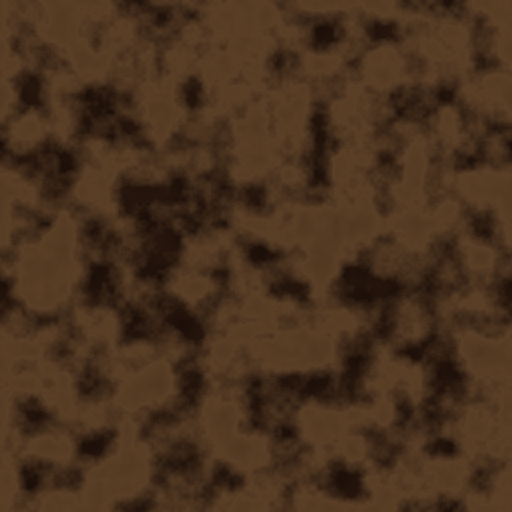
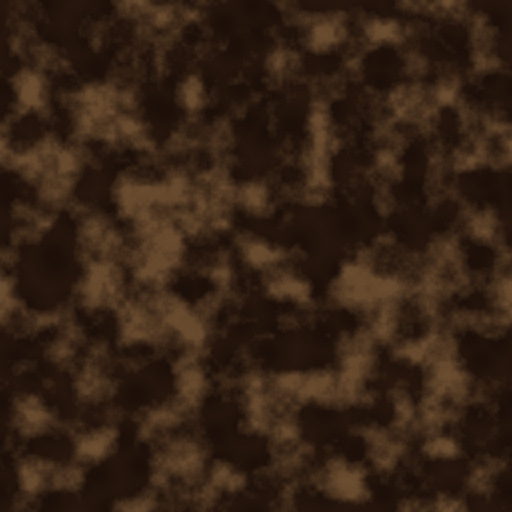
fix(cookbook): correct leather/terrain bugs surfaced by the subgraph retrofit
t01_sand_dunes: the wood donor wired blend_0 (the master ripple pattern)
into Material's metallic port, and Material's metallic scalar defaults to 1,
so parts of the sand read as metal. Drop the wire and zero the scalar;
verified the exported ORM metallic channel is flat black.

l02_distressed_two_tone: swap port0/port1 on both blends so the dark saddle
base is the majority and the lighter worn rubs are the scattered minority
(was reversed). This also makes the exposed 'Wear blend strength' param
control the wear layer as its label claims.

l05_quilted_leather: swap port0/port1 on blend_alb_q so the dark seam_shade
lands in the recessed seams instead of on the pad centers. Grayson chose the
swap over relabeling; the round-pad geometry limitation is documented in the
card.

Recipe cards for all three rewritten to describe the fixed behavior. Fast
suite 505 passed, promote --check in sync.

diff --git a/quality/cookbook_leather.py b/quality/cookbook_leather.py
@@ -155,11 +155,20 @@ def build_l02_distressed_two_tone(catalog: dict) -> str:
         {"from": "perlin_wm", "from_port": 0, "to": "colorize_wm", "to_port": 0},
         {"from": "perlin_wm", "from_port": 0, "to": "worn_alb", "to_port": 0},
         {"from": "perlin_wm", "from_port": 0, "to": "worn_rgh", "to_port": 0},
-        {"from": "colorize_1", "from_port": 0, "to": "blend_alb", "to_port": 0},  # base grain
-        {"from": "worn_alb", "from_port": 0, "to": "blend_alb", "to_port": 1},
+        # Polarity fix (2026-09-04): the worn tone is the MINORITY (scattered
+        # rubs), the dark saddle base is the MAJORITY. blend output =
+        # mask*port0 + (1-mask)*port1, and colorize_wm's mask is 1 only in the
+        # small high-perlin patches, 0 across the broad remainder. So the worn
+        # tone belongs on port0 (shown where mask=1 = the patches) and the base
+        # on port1 (shown where mask=0 = most of the surface). The original
+        # wiring had these reversed, so the worn tan covered most of the hide
+        # and the base showed only in small patches -- backwards from the
+        # recipe's own intent.
+        {"from": "worn_alb", "from_port": 0, "to": "blend_alb", "to_port": 0},   # worn rubs (minority, mask=1)
+        {"from": "colorize_1", "from_port": 0, "to": "blend_alb", "to_port": 1}, # dark saddle base (majority, mask=0)
         {"from": "colorize_wm", "from_port": 0, "to": "blend_alb", "to_port": 2},
-        {"from": "colorize_3", "from_port": 0, "to": "blend_rgh", "to_port": 0},
-        {"from": "worn_rgh", "from_port": 0, "to": "blend_rgh", "to_port": 1},
+        {"from": "worn_rgh", "from_port": 0, "to": "blend_rgh", "to_port": 0},   # worn roughness (minority)
+        {"from": "colorize_3", "from_port": 0, "to": "blend_rgh", "to_port": 1}, # base roughness (majority)
         {"from": "colorize_wm", "from_port": 0, "to": "blend_rgh", "to_port": 2},
     ]
     rewire(g, "Material", 0, "blend_alb", 0)   # albedo <- worn-over-base
@@ -171,12 +180,12 @@ def build_l02_distressed_two_tone(catalog: dict) -> str:
     # Port-source trace for blend_alb/blend_rgh, read directly from the
     # `connections` list assembled above (ground truth: blend.mmg's shader
     # model is s1=port0/foreground, s2=port1/background, a=port2/mask, output
-    # = mask*port0 + (1-mask)*port1):
-    #   blend_alb: port0 (shown where mask=1) <- colorize_1 (base grain)
-    #              port1 (shown where mask=0) <- worn_alb
+    # = mask*port0 + (1-mask)*port1). Post-polarity-fix wiring:
+    #   blend_alb: port0 (shown where mask=1) <- worn_alb (scattered rubs)
+    #              port1 (shown where mask=0) <- colorize_1 (base grain, majority)
     #              port2 (mask)               <- colorize_wm
-    #   blend_rgh: port0 (shown where mask=1) <- colorize_3 (base roughness)
-    #              port1 (shown where mask=0) <- worn_rgh
+    #   blend_rgh: port0 (shown where mask=1) <- worn_rgh (rubbed roughness)
+    #              port1 (shown where mask=0) <- colorize_3 (base roughness, majority)
     #              port2 (mask)               <- colorize_wm (same mask)
     # Grouping below keeps both blends together in one composite group with
     # no change to any of these connections; group_into_subgraph rehomes each
@@ -332,9 +341,15 @@ def build_l05_quilted_leather(catalog: dict) -> str:
         # height: pattern pads (base) + grain (colorize_0) overlaid at 0.35
         {"from": "pattern_q", "from_port": 0, "to": "blend_h_q", "to_port": 0},
         {"from": "colorize_0", "from_port": 0, "to": "blend_h_q", "to_port": 1},
-        # albedo: darken the seams over the saddle grain, opacity = seam mask
-        {"from": "colorize_1", "from_port": 0, "to": "blend_alb_q", "to_port": 0},
-        {"from": "seam_shade", "from_port": 0, "to": "blend_alb_q", "to_port": 1},
+        # albedo: darken the seams over the saddle grain. Polarity fix
+        # (2026-09-04): seam_mask is 1 in the recessed seams (low pattern) and
+        # 0 on the pad faces (high pattern), and blend output =
+        # mask*port0 + (1-mask)*port1, so the dark seam_shade must sit on port0
+        # (shown where mask=1 = seams) and the grain on port1 (shown where
+        # mask=0 = pads). The original wiring had these reversed, so the dark
+        # landed on the pad CENTERS (button-tuft dots) instead of in the seams.
+        {"from": "seam_shade", "from_port": 0, "to": "blend_alb_q", "to_port": 0},  # dark seams (mask=1)
+        {"from": "colorize_1", "from_port": 0, "to": "blend_alb_q", "to_port": 1},  # grain pad faces (mask=0)
         {"from": "seam_mask", "from_port": 0, "to": "blend_alb_q", "to_port": 2},
     ]
     rewire(g, "Material", 0, "blend_alb_q", 0)     # albedo <- seam-shaded grain

diff --git a/quality/cookbook_terrain.py b/quality/cookbook_terrain.py
@@ -42,6 +42,18 @@ def build_t01_sand_dunes(catalog: dict) -> str:
         (1.0, 0.92, 0.92, 0.92),
     ])
 
+    # Non-metallic fix (2026-09-04): the `wood` donor wires `blend_0` (the
+    # master ripple pattern) straight into `Material` port 1 (metallic), so a
+    # grayscale 0..1 pattern drove the metallic channel and parts of the sand
+    # read as metal. Sand is non-metallic. Drop the wire AND zero the scalar:
+    # `Material`'s own `metallic` default is 1, so dropping alone would flip it
+    # fully metallic -- doing both is correct under every Material-node
+    # port/scalar semantic (t02_fresh_snow zeroes its metallic-feeding node the
+    # same way; here the feeder also drives albedo/roughness/normal so it can't
+    # be zeroed, hence the scalar).
+    drop_conn(g, "Material", 1)          # remove blend_0 -> metallic wire
+    set_param(g, "Material", "metallic", 0)
+
     # Subgraph grouping. `perlin_2` -> `blend_0` (Multiply, port0) is the
     # dune-ripple base; `blend_0`'s port1 keeps wood's own unmodified
     # grain-warp chain (perlin_0/perlin_1/warp_0/voronoi_0/colorize_1/
@@ -49,11 +61,10 @@ def build_t01_sand_dunes(catalog: dict) -> str:
     # UNMODIFIED -- none of that chain's own params are builder-set, so it
     # rides along with the pattern group it feeds rather than standing alone
     # with zero exposed parameters. `blend_0` itself (amount/blend_type) is
-    # an untouched donor default. NOTE (pre-existing, not this task's to
-    # fix): `blend_0` feeds `Material` port 1 (metallic) DIRECTLY in the
-    # `wood` donor -- unusual for a non-metal material, but this builder
-    # never rewires it, so the wire is preserved as-is; it becomes a
-    # boundary port from Dune Ripples straight to Material.
+    # an untouched donor default. `blend_0` feeds normal_map_0/colorize_0/
+    # colorize_2 (all in Sand Finish), so it stays in Dune Ripples with those
+    # three outgoing boundary ports (the fourth, to Material's metallic port,
+    # was dropped above).
     group_into_subgraph(g, ["perlin_2", "perlin_1", "perlin_0", "warp_0",
                              "voronoi_0", "colorize_1", "warp_1", "blend_0"],
                          "dune_ripples", "Dune Ripples",

diff --git a/cookbook/leather/l05_quilted_leather.md b/cookbook/leather/l05_quilted_leather.md
@@ -25,24 +25,25 @@ Traced wiring:
   (grain height). Port2 (mask) has no connection at all, so it uses the
   node's own default of a constant `1.0` — this blend is a flat, unmasked
   `0.35*pads + 0.65*grain` mix, not a spatial composite.
-- `blend_alb_q`: port0 (shown where mask=1) ← `colorize_1` (base grain);
-  port1 (shown where mask=0) ← `seam_shade` (the dark constant); port2
-  (mask) ← `seam_mask`.
+- `blend_alb_q`: port0 (shown where mask=1) ← `seam_shade` (the dark
+  constant, in the recessed seams); port1 (shown where mask=0) ← `colorize_1`
+  (base grain, on the pad faces); port2 (mask) ← `seam_mask`.
 
-Note for anyone tuning this graph: `seam_mask`'s gradient is 1 for low
-`pattern_q` values and 0 for high ones, and the pattern's two-multiplied-sine
-shape puts its high values in small, roughly circular regions at the pad
-centers (visually confirmed against the render — regularly spaced dark
-roundels, matching `x_scale=5`/`y_scale=5`) with lower values across the
-broader area between them. So in the actual render, `colorize_1` (the base
-grain, port0) covers the broader field and `seam_shade` (the near-black
-constant, port1) appears in the smaller pad-center roundels — read as dark
-button-tuft points on a grained field, not literally "dark seams / grain-
-colored pad faces" as the recipe prose above describes. This is the
-material's existing, already-shipped behavior (confirmed against the
-pre-retrofit baseline render, not something this retrofit changed),
-documented here factually since re-deriving the mask polarity is outside
-this task's scope.
+Polarity fix (2026-09-04): `seam_mask` is 1 for low `pattern_q` values (the
+recessed seams) and 0 for high ones (the raised pad centers), and blend output
+is `mask*port0 + (1-mask)*port1`, so the dark `seam_shade` must sit on port0
+(shown where mask=1 = the seams) and the grain on port1 (shown where mask=0 =
+the pads). The original wiring had these reversed, so the dark landed on the
+pad centers as button-tuft dots rather than in the seams. A before/after
+render confirmed the flip: grain-toned pads on dark recessed seams.
+
+Honest geometry note: the two-multiplied-sine `pattern` makes compact, roughly
+circular peaks with broad low valleys, so after the fix the grain pads read as
+round pads on a broad dark seam grid rather than large puffy diamond pads with
+thin seams. Grayson reviewed the before/after and chose the swap: it matches
+the material's name and stated intent, with the round pad shape accepted as a
+minor stylization. A proper broad-diamond quilt would need a different wave
+shape (e.g. `pattern` Bounce) and is a separate, larger change.
 
 Opening the graph shows 4 top-level groups (plus `Material` and the
 untouched metallic `uniform_0`) instead of the raw 11-node graph:

diff --git a/cookbook/leather/l02_distressed_two_tone.md b/cookbook/leather/l02_distressed_two_tone.md
@@ -22,24 +22,25 @@ shader model (ground truth, read directly from
 port0 (foreground), `s2` is port1 (background), `a` is port2 (mask), and the
 output is `mask*port0 + (1-mask)*port1`. Traced wiring:
 
-- `blend_alb`: port0 (shown where mask=1) ← `colorize_1` (base grain
-  albedo); port1 (shown where mask=0) ← `worn_alb`; port2 (mask) ←
-  `colorize_wm`.
-- `blend_rgh`: port0 (shown where mask=1) ← `colorize_3` (base roughness);
-  port1 (shown where mask=0) ← `worn_rgh`; port2 (mask) ← `colorize_wm`
-  (the same mask feeds both blends).
+- `blend_alb`: port0 (shown where mask=1) ← `worn_alb` (the scattered rubs);
+  port1 (shown where mask=0) ← `colorize_1` (base grain albedo, the
+  majority); port2 (mask) ← `colorize_wm`.
+- `blend_rgh`: port0 (shown where mask=1) ← `worn_rgh` (rubbed roughness);
+  port1 (shown where mask=0) ← `colorize_3` (base roughness, the majority);
+  port2 (mask) ← `colorize_wm` (the same mask feeds both blends).
 
-Note for anyone tuning this graph: given `colorize_wm`'s threshold shape
-(ramping 0→1 between perlin values 0.40 and 0.72), the mask value is 1 only
-in the smaller high-perlin region and 0 across the broader remainder — so in
-the actual render, `worn_alb`/`worn_rgh` (port1) covers most of the visible
-surface and `colorize_1`/`colorize_3` (port0, the "base" tone) shows through
-in the smaller high-perlin patches, the reverse of which layer the recipe
-prose above calls "base" versus "showing through." This is the material's
-existing, already-shipped behavior (confirmed against the pre-retrofit
-baseline render, not something this retrofit changed), documented here
-factually rather than re-litigated, since fixing the mask polarity is
-outside this task's scope.
+Polarity fix (2026-09-04): `colorize_wm`'s threshold ramps 0→1 between perlin
+values 0.40 and 0.72, so the mask is 1 only in the smaller high-perlin region
+and 0 across the broader remainder. The worn tone is therefore the MINORITY
+(scattered rubs) and belongs on port0 (shown where mask=1), while the dark
+saddle base is the MAJORITY and belongs on port1 (shown where mask=0). The
+original wiring had these reversed, so the lighter worn tan covered most of
+the hide and the dark base showed through only in small patches — backwards
+from this recipe's own description. Both blends were swapped; a before/after
+render confirmed the field flipped from mostly-light to mostly-dark-saddle
+with lighter worn rubs scattered through it. As a bonus, the exposed `Wear
+blend strength` (`blend_alb.amount`) now controls what its label claims, since
+port0 is finally the wear layer.
 
 Opening the graph shows 4 top-level groups (plus `Material` and the
 untouched metallic `uniform_0`) instead of the raw 13-node graph:

diff --git a/cookbook/terrain/t01_sand_dunes.md b/cookbook/terrain/t01_sand_dunes.md
@@ -27,15 +27,17 @@ Grouped per the "Grouping into subgraphs" lever in `docs/AUTHORING.md`:
   `Sand color` (`colorize_2.gradient`), `Surface sheen`
   (`colorize_0.gradient`).
 
-Pre-existing wiring note, not touched by this retrofit: in the `wood`
-donor, `blend_0` feeds the Material node's metallic port (port 1) DIRECTLY
--- unusual for a non-metal material, but this recipe never rewires it, so
-the connection is preserved as-is (now a boundary port from Dune Ripples
-straight to Material).
-
-Verified after building: `renders_match` against this material's own
-pre-retrofit baseline came back at an exact `grid_mean_abs_diff` of `0.0`
-on all three exported maps (albedo, normal, orm).
+Metallic fix (2026-09-04): the `wood` donor wires `blend_0` (the master
+ripple pattern) straight into the Material node's metallic port (port 1), so
+a grayscale 0..1 pattern was driving the metallic channel and parts of the
+sand read as metal. Sand is non-metallic, so the builder now drops that wire
+AND sets the Material node's own `metallic` scalar to 0 (its donor default is
+1, so dropping the wire alone would have flipped it fully metallic; doing both
+is correct under every Material-node port/scalar semantic, and mirrors how
+`t02_fresh_snow` zeroes its own metallic feeder). Verified by reading the
+exported ORM map's metallic (B) channel directly: flat 0 across the whole
+surface. The albedo/normal maps are unaffected, since metallic is not visible
+in albedo.
 
 ## See also
 
